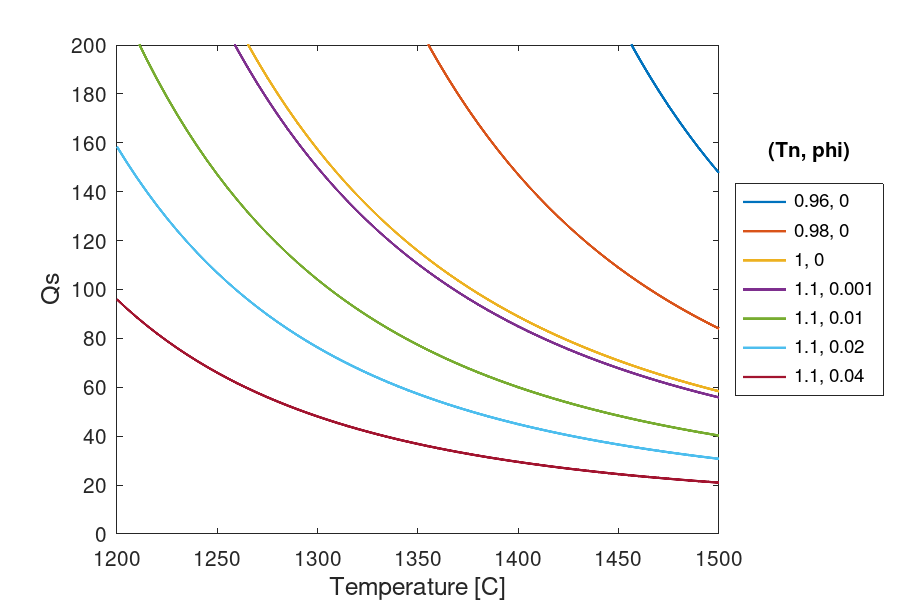
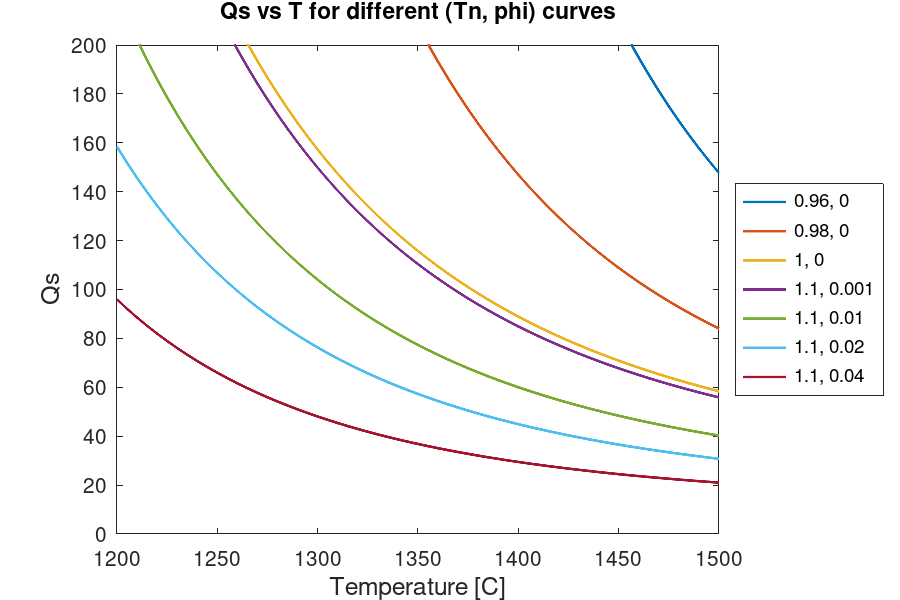
2.0.4 prep: docs rebuild, bump version, history

Changed region(s): [[0.2489, 0.0, 0.6844, 0.03], [0.84, 0.24, 0.9644, 0.27]]

diff --git a/vbr/support/vbr_version.m b/vbr/support/vbr_version.m
@@ -6,7 +6,7 @@ function Version = vbr_version()
     Version.version = [num2str(Version.major), '.', ...
                        num2str(Version.minor), '.', ...
                        num2str(Version.patch)];
-    Version.is_development = 1;
+    Version.is_development = 0;
     if Version.is_development == 1
         Version.version = [Version.version, 'dev'];
     end

diff --git a/docs/_pages/examples/CB_014_xfit_premelt_extended.md b/docs/_pages/examples/CB_014_xfit_premelt_extended.md
@@ -44,19 +44,16 @@ function VBR = CB_014_xfit_premelt_extended()
   VBR.in.SV.sig_MPa = full_nd(1, sz); % differential stress [MPa]
   VBR.in.SV.f = 1; % 1 Hz
 
-  if (getenv('VBRcTesting') ~= '1')
+  if ~vbr_tests_are_running()
     f1=figure('PaperPosition',[0,0,6,4],'PaperPositionMode','manual');
-    nTn = numel(Tn_cases);
-    VBR_results = struct();
-
+    nTn = numel(Tn_cases);    
     for iTn = 1:nTn
           VBRi = VBR;
           VBRi.in.SV.phi = full_nd(phi_cases(iTn), sz);
           VBRi.in.SV.Tsolidus_K = VBR.in.SV.T_K / Tn_cases(iTn);
           [VBRi] = VBR_spine(VBRi) ;
 
-          results.Q = VBRi.out.anelastic.xfit_premelt.Q;
-          VBR_results(iTn) = results;
+          results.Q = VBRi.out.anelastic.xfit_premelt.Q;          
 
           dname = [num2str(Tn_cases(iTn)), ', ', num2str(phi_cases(iTn))];
           figure(f1)
@@ -64,13 +61,15 @@ function VBR = CB_014_xfit_premelt_extended()
               hold all
           end
           plot(VBR.in.SV.T_K - 273, results.Q, 'displayname', dname, 'linewidth', 1.5)
-          legend('Location','eastoutside','title', '(Tn, phi)')
+          legend('Location','eastoutside')
+          title('Qs vs T for different (Tn, phi) curves')          
           xlabel('Temperature [C]', 'fontsize', 12)
           ylabel('Qs', 'fontsize', 12)
           ylim([0, 200])
 
           yticks(0:20:200)
     end
+    
 
     saveas(gcf,'./figures/CB_014_xfit_premelt_extended.png')
   end

diff --git a/docs/_pages/examples/CB_011_meltEffects.md b/docs/_pages/examples/CB_011_meltEffects.md
@@ -70,7 +70,7 @@ function case1out = case1()
   VBR_1 = VBR_spine(VBR);
 
   % figure: effect on unrelaxed modulus, wavespeed
-  if (getenv('VBRcTesting') ~= '1')
+  if ~vbr_tests_are_running()
     case1out.fig1=figure('Position', [10 10 650 250]);
     for imeth=1:numel(VBR_1.in.elastic.methods_list)
       elmeth=VBR_1.in.elastic.methods_list{imeth};
@@ -93,7 +93,7 @@ function case1out = case1()
   VBR.in.elastic.methods_list={'anharmonic'};
   VBR_2 = VBR_spine(VBR);
 
-  if (getenv('VBRcTesting') ~= '1')
+  if ~vbr_tests_are_running()
     % figure: anelastic results with and without poroelastic effect
     case1out.fig2=figure('Position', [20 20 650 250]);
     ifreq=1;
@@ -165,7 +165,7 @@ function case2out =case2()
   case2out.VBR_2=VBR_2;
 
   % figure: V,M vs. melt fraction for each method
-  if (getenv('VBRcTesting') ~= '1')
+  if ~vbr_tests_are_running()
     case2out.fig=figure('Position', [10 10 650 250]);
     ifreq=1;
     meth_colors=getMethodColors();
@@ -223,7 +223,7 @@ function case2out =case2()
   VBR_3 = VBR_spine(VBR);
 
   % figure: phi, M and V vs T
-  if (getenv('VBRcTesting') ~= '1')
+  if ~vbr_tests_are_running()
     case2out.fig2=figure('Position', [30 30 1000 500],'PaperPosition',[0,0,12,4],'PaperPositionMode','manual');
     meth_colors=getMethodColors();
     phi_range=VBR.in.SV.phi;

diff --git a/docs/_pages/examples/CB_015_analytical_andrade.md b/docs/_pages/examples/CB_015_analytical_andrade.md
@@ -45,7 +45,7 @@ function VBR = CB_015_analytical_andrade()
      VBR = VBR_spine(VBR) ;
 
      % plot frequency dependence of attenuation
-     if (getenv('VBRcTesting') ~= '1')
+     if ~vbr_tests_are_running()
           figure('PaperPosition',[0,0,4,4],'PaperPositionMode','manual')
           loglog(VBR.in.SV.f, VBR.out.anelastic.andrade_analytical.Qinv, ...
                'displayname', 'analytical andrade', 'linewidth', 2)
@@ -83,7 +83,7 @@ function VBR = CB_015_analytical_andrade()
      VBR = VBR_spine(VBR) ;
 
      % plot frequency dependence of attenuation
-     if (getenv('VBRcTesting') ~= '1')
+     if ~vbr_tests_are_running()
           loglog(VBR.in.SV.f, VBR.out.anelastic.andrade_analytical.Qinv, ...
                'displayname', 'analytical andrade, gbs', 'linewidth', 2)
      end
@@ -117,7 +117,7 @@ function VBR = CB_015_analytical_andrade()
      VBR = VBR_spine(VBR) ;
 
      % plot frequency dependence of attenuation
-     if (getenv('VBRcTesting') ~= '1')
+     if ~vbr_tests_are_running()
           loglog(VBR.in.SV.f, VBR.out.anelastic.andrade_analytical.Qinv, ...
                'displayname', 'analytical andrade, fixed eta\_ss', 'linewidth', 2)
           xlabel('f [Hz]')

diff --git a/docs/_pages/history.md b/docs/_pages/history.md
@@ -4,6 +4,14 @@ title: "Release Notes"
 toc: false
 ---
 
+# v2.0.4
+
+Another quick release to address more octave/matlab compatibility issues and fix a cookbook.
+
+## Bug fixes
+
+* fix CB_014 and fix test env check [189](https://github.com/vbr-calc/vbr/pull/189) by @chrishavlin
+
 # v2.0.3
 
 Bug fix release to fix some matlab/octave compatibility issues with the cookbooks and test suite.
@@ -13,7 +21,6 @@ Bug fix release to fix some matlab/octave compatibility issues with the cookbook
 
 ## Infrastructure improvements
 * remove unneeded function added in 2.0.2  [#185](https://github.com/vbr-calc/vbr/pull/185) by @chrishavlin
-
 
 # v2.0.2
 

diff --git a/release_notes.md b/release_notes.md
@@ -1,15 +1,7 @@
-# v2.0.4dev
+# v2.0.4
 
-Description
-
-## New Features
+Another quick release to address more octave/matlab compatibility issues and fix a cookbook.
 
 ## Bug fixes
 
-## Documentation 
-
-## Deprecations
-
-## Infrastructure improvements
-
-## Other changes
+* fix CB_014 and fix test env check [189](https://github.com/vbr-calc/vbr/pull/189) by @chrishavlin

diff --git a/docs/_pages/examples/CB_005_grainsize_melt.md b/docs/_pages/examples/CB_005_grainsize_melt.md
@@ -46,7 +46,7 @@ function VBR = CB_005_grainsize_melt()
   [VBR] = VBR_spine(VBR) ;
 
   %% Build Plots %%
-  if (getenv('VBRcTesting') ~= '1')
+  if ~vbr_tests_are_running()
     figure('Position', [10 10 650 650],'PaperPosition',[0,0,7,7],'PaperPositionMode','manual');
     fixed_dg=.01 * 1e6; % 1 cm grain size
     fixed_phi=.001; % melt fraction

diff --git a/docs/_pages/examples/CB_001_0D_scalar.md b/docs/_pages/examples/CB_001_0D_scalar.md
@@ -52,7 +52,7 @@ function VBR = CB_001_0D_scalar()
   [VBR] = VBR_spine(VBR) ;
 
   %% Build plots %%
-  if (getenv('VBRcTesting') ~= '1')
+  if ~vbr_tests_are_running()
     figure('PaperPosition',[0,0,7,4],'PaperPositionMode','manual')
     % Loop over anelastic methods, plot result of each
     for imeth=1:numel(VBR.in.anelastic.methods_list)

diff --git a/docs/_pages/examples/CB_009_anhporo.md b/docs/_pages/examples/CB_009_anhporo.md
@@ -30,7 +30,7 @@ function VBR = CB_009_anhporo()
   [VBR] = VBR_spine(VBR) ;
 
   %% plot the result %%
-  if (getenv('VBRcTesting') ~= '1')
+  if ~vbr_tests_are_running()
     figure('Position', [10 10 600 300],'DefaultAxesFontSize',16);
     subplot(1,2,1)
     semilogx(VBR.in.SV.phi,VBR.out.elastic.anh_poro.Gu/1e9,'k','linewidth',1.5)

diff --git a/docs/_pages/examples/CB_008_anharmonic_Gu0.md b/docs/_pages/examples/CB_008_anharmonic_Gu0.md
@@ -45,7 +45,7 @@ function VBR = CB_008_anharmonic_Gu0()
   [VBR] = VBR_spine(VBR) ;
 
   %% plot the result %%  
-  if (getenv('VBRcTesting') ~= '1')
+  if ~vbr_tests_are_running()
     figure('PaperPosition',[0,0,16,4],'PaperPositionMode','manual')
     subplot(1, 5, 1)
     plot(VBR.in.SV.T_K-273,depth_km,'k','linewidth',1.5)

diff --git a/docs/_pages/examples/CB_006_viscosity.md b/docs/_pages/examples/CB_006_viscosity.md
@@ -44,7 +44,7 @@ function VBR = CB_006_viscosity()
   [VBR_vs_sig] = VBR_spine(VBR) ;
 
   %% Plot strain rates, viscosity %%
-  if (getenv('VBRcTesting') ~= '1')
+  if ~vbr_tests_are_running()
     figure()
     for imeth=1:numel(VBR_vs_dg.in.viscous.methods_list)
       vmeth=VBR_vs_dg.in.viscous.methods_list{imeth};

diff --git a/docs/_pages/examples/CB_012_simplecrust.md b/docs/_pages/examples/CB_012_simplecrust.md
@@ -66,7 +66,7 @@ function VBR = CB_012_simplecrust()
   [VBR] = VBR_spine(VBR) ;
 
   %% build figures
-  if (getenv('VBRcTesting') ~= '1')
+  if ~vbr_tests_are_running()
     figure('PaperPosition',[0,0,10,4],'PaperPositionMode','manual')
     subplot(1,4,4)
     plot(VBR.out.anelastic.andrade_psp.Vave/1e3,z_km,'k')
